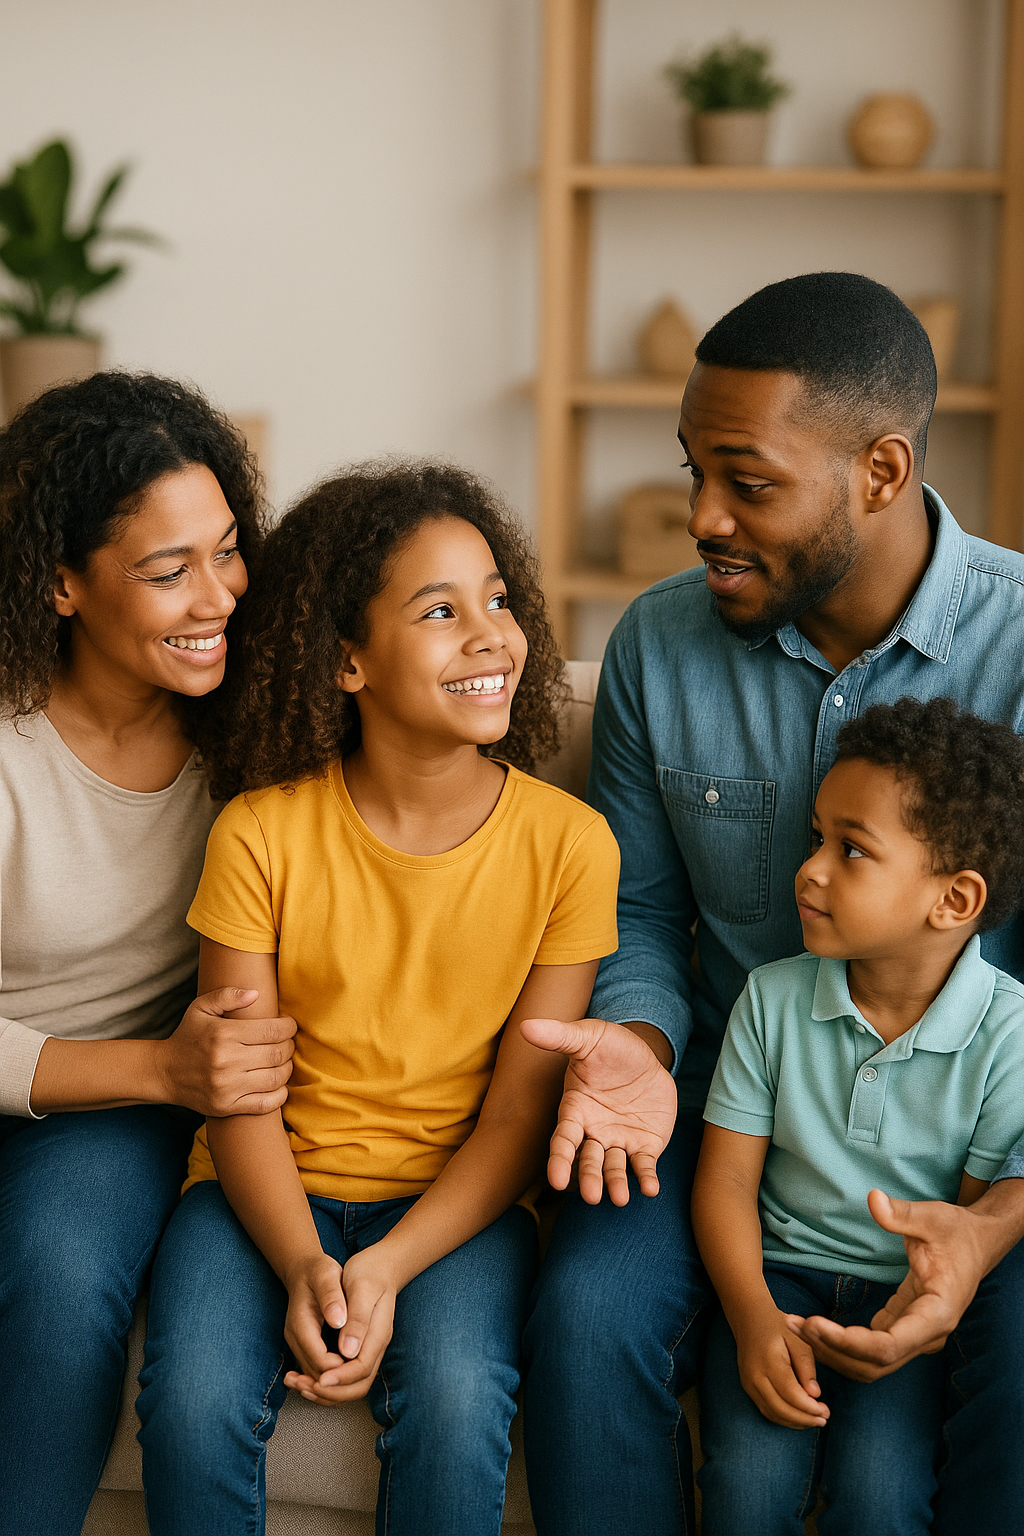
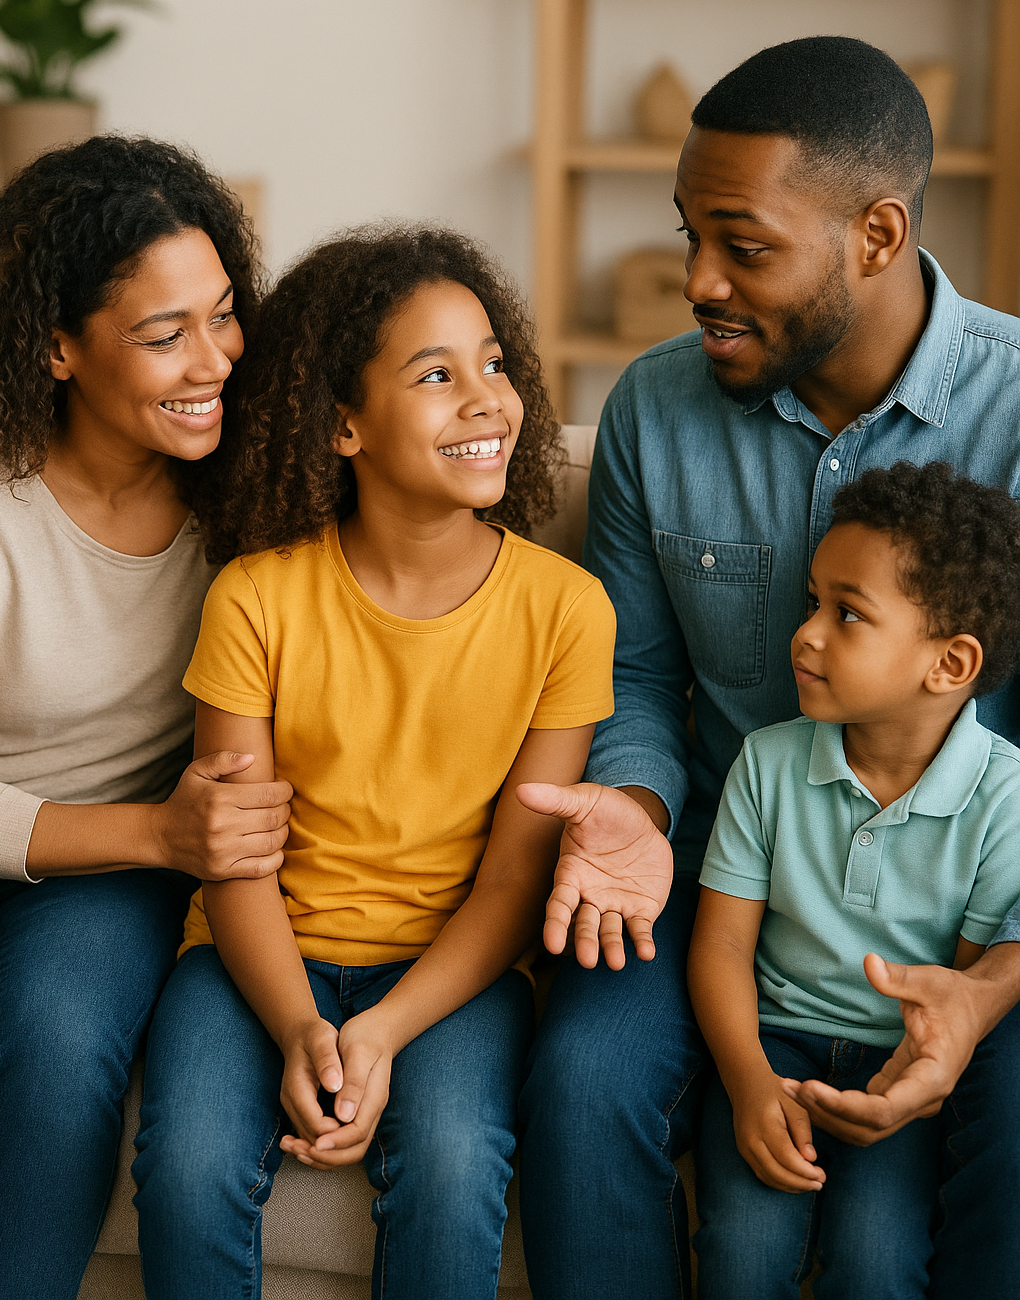
feat: add AnimatedArrow component and integrate into HeroSection; update HomePage layout for improved structure

diff --git a/src/pages/HomePage.tsx b/src/pages/HomePage.tsx
@@ -71,90 +71,99 @@ const itemVariants: Variants = {
 
 export const HomePage: React.FC = () => {
 	return (
-		<div className="bg-teal-900 min-h-screen overflow-x-hidden" id="home">
-			<HeroSection />
+		<>
+			<style>{`
+				body {
+					overflow-x: hidden;
+				}
+			`}</style>
+			<div className="bg-teal-900 min-h-screen" id="home">
+				<HeroSection />
 
-			{/* Features Section - Dark Teal */}
-			<AnimatedSection className="text-yellow-50 py-20">
-				<div className="container mx-auto px-6">
-					<div className="text-center mb-12">
-						<h2 className="text-3xl md:text-4xl font-bold mb-4">
-							Your Companion for Effective Parenting
-						</h2>
-						<p className="mt-6 text-lg max-w-2xl mx-auto">
-							The Value Driven Child (VDC) parenting Toolkit is
-							your essential companion for intentional and
-							effective parenting. It is meticulously designed to
-							equip parents and caregivers with proven methods to
-							nurture morally grounded, resilient, and successful
-							children in today's ever-changing world.
-						</p>
+				{/* Features Section - Dark Teal */}
+				<AnimatedSection className="text-yellow-50 py-20">
+					<div className="container mx-auto px-6">
+						<div className="text-center mb-12">
+							<h2 className="text-3xl md:text-4xl font-bold mb-4">
+								Your Companion for Effective Parenting
+							</h2>
+							<p className="mt-6 text-lg max-w-2xl mx-auto">
+								The Value Driven Child (VDC) parenting Toolkit
+								is your essential companion for intentional and
+								effective parenting. It is meticulously designed
+								to equip parents and caregivers with proven
+								methods to nurture morally grounded, resilient,
+								and successful children in today's ever-changing
+								world.
+							</p>
+						</div>
+
+						<motion.div
+							className="grid md:grid-cols-4 gap-8 text-center"
+							variants={containerVariants}
+							initial="hidden"
+							whileInView="visible"
+							viewport={{ once: true, amount: 0.2 }}>
+							{features.map((item, index) => (
+								<motion.div
+									key={index}
+									className="p-6 bg-teal-700 rounded-lg shadow-md transition-all duration-300"
+									variants={itemVariants}
+									whileHover={{
+										y: -5,
+										boxShadow:
+											"0px 10px 20px rgba(0,0,0,0.1)",
+									}}>
+									<h3 className="text-2xl font-bold mb-4">
+										{item.title}
+									</h3>
+									<p className="text-base md:text-xl">
+										{item.description}
+									</p>
+								</motion.div>
+							))}
+						</motion.div>
 					</div>
+				</AnimatedSection>
 
-					<motion.div
-						className="grid md:grid-cols-4 gap-8 text-center"
-						variants={containerVariants}
-						initial="hidden"
-						whileInView="visible"
-						viewport={{ once: true, amount: 0.2 }}>
-						{features.map((item, index) => (
-							<motion.div
-								key={index}
-								className="p-6 bg-teal-700 rounded-lg shadow-md transition-all duration-300"
-								variants={itemVariants}
-								whileHover={{
-									y: -5,
-									boxShadow: "0px 10px 20px rgba(0,0,0,0.1)",
-								}}>
-								<h3 className="text-2xl font-bold mb-4">
-									{item.title}
-								</h3>
-								<p className="text-base md:text-xl">
-									{item.description}
-								</p>
-							</motion.div>
-						))}
-					</motion.div>
-				</div>
-			</AnimatedSection>
+				{/* Personality Types Section - Medium Teal */}
+				<AnimatedSection className="bg-teal-600 text-yellow-50 py-20">
+					<div className="container mx-auto px-6">
+						<div className="text-center mb-12">
+							<h2 className="text-3xl md:text-4xl font-bold mb-4">
+								Understand Your Child's Unique Design
+							</h2>
+							<p className="text-lg max-w-2xl mx-auto">
+								The VDC Toolkit helps you discover your child's
+								natural predispositions—Gold, Blue, Green, or
+								Orange—allowing for personalized parenting that
+								nurtures their individual strengths.
+							</p>
+						</div>
 
-			{/* Personality Types Section - Medium Teal */}
-			<AnimatedSection className="bg-teal-600 text-yellow-50 py-20">
-				<div className="container mx-auto px-6">
-					<div className="text-center mb-12">
-						<h2 className="text-3xl md:text-4xl font-bold mb-4">
-							Understand Your Child's Unique Design
-						</h2>
-						<p className="text-lg max-w-2xl mx-auto">
-							The VDC Toolkit helps you discover your child's
-							natural predispositions—Gold, Blue, Green, or
-							Orange—allowing for personalized parenting that
-							nurtures their individual strengths.
-						</p>
+						<motion.div
+							className="flex justify-center flex-wrap gap-4"
+							variants={containerVariants}
+							initial="hidden"
+							whileInView="visible"
+							viewport={{ once: true, amount: 0.2 }}>
+							{predisposition.map((type, index) => (
+								<motion.div
+									key={index}
+									variants={itemVariants}
+									whileHover={{ scale: 1.1 }}
+									whileTap={{ scale: 0.9 }}>
+									<HashLink
+										to={`/#${type.name.toLowerCase()}`}
+										className={`bg-${type.color} text-${type.text} px-4 py-2 rounded-full font-semibold shadow-md transition-transform hover:shadow-lg`}>
+										{type.name}
+									</HashLink>
+								</motion.div>
+							))}
+						</motion.div>
 					</div>
-
-					<motion.div
-						className="flex justify-center flex-wrap gap-4"
-						variants={containerVariants}
-						initial="hidden"
-						whileInView="visible"
-						viewport={{ once: true, amount: 0.2 }}>
-						{predisposition.map((type, index) => (
-							<motion.div
-								key={index}
-								variants={itemVariants}
-								whileHover={{ scale: 1.1 }}
-								whileTap={{ scale: 0.9 }}>
-								<HashLink
-									to={`/#${type.name.toLowerCase()}`}
-									className={`bg-${type.color} text-${type.text} px-4 py-2 rounded-full font-semibold shadow-md transition-transform hover:shadow-lg`}>
-									{type.name}
-								</HashLink>
-							</motion.div>
-						))}
-					</motion.div>
-				</div>
-			</AnimatedSection>
-		</div>
+				</AnimatedSection>
+			</div>
+		</>
 	);
 };

diff --git a/src/components/Hero.tsx b/src/components/Hero.tsx
@@ -2,6 +2,7 @@ import { Button } from "@/components/ui/button";
 import { Badge } from "@/components/ui/badge";
 import { BookOpen, Users, Heart, CheckCircle } from "lucide-react";
 import { motion, type Variants } from "framer-motion";
+import { AnimatedArrow } from "./AnimatedArrow";
 
 const containerVariants: Variants = {
 	hidden: { opacity: 0 },
@@ -27,27 +28,27 @@ export function HeroSection() {
 	return (
 		<section
 			id="home"
-			className="py-20 bg-gradient-to-b from-teal-950 to-teal-600 min-h-screen flex items-center">
+			className="relative bg-gradient-to-b from-teal-950 to-teal-600 pt-2 sm:pt-4 lg:pt-8 pb-20 sm:pb-24 lg:pb-32 overflow-hidden">
 			<div className="container mx-auto px-4">
 				<motion.div
-					className="grid lg:grid-cols-2 gap-8 lg:gap-12 items-center"
+					className="grid lg:grid-cols-2 gap-12 lg:gap-16 items-center"
 					variants={containerVariants}
 					initial="hidden"
 					animate="visible">
-					<motion.div className="space-y-8" variants={itemVariants}>
+					<motion.div className="space-y-6" variants={itemVariants}>
 						<div className="space-y-4 text-yellow-50">
 							<motion.div variants={itemVariants}>
-								<Badge className="bg-blue-100 text-blue-800 hover:bg-blue-100">
+								<Badge className="bg-blue-100 text-blue-800 hover:bg-blue-100 text-sm">
 									Transform Children&apos;s Lives
 								</Badge>
 							</motion.div>
 							<motion.h1
-								className="text-3xl sm:text-4xl lg:text-5xl font-bold mb-6 break-words"
+								className="text-4xl sm:text-5xl lg:text-6xl font-bold tracking-tight break-words"
 								variants={itemVariants}>
 								Intentional Parenting for a Value-Driven Child
 							</motion.h1>
 							<motion.p
-								className="text-lg sm:text-xl mb-8 max-w-3xl mx-auto"
+								className="text-lg sm:text-xl max-w-2xl"
 								variants={itemVariants}>
 								Nurture morally grounded, resilient, and
 								successful children with the VDC Toolkit.
@@ -57,14 +58,14 @@ export function HeroSection() {
 						<motion.div
 							className="bg-yellow-50 p-6 rounded-lg shadow-lg border-l-4 border-orange-500"
 							variants={itemVariants}>
-							<h3 className="text-lg font-semibold text-gray-900 mb-2">
+							<h3 className="text-lg font-semibold text-gray-900">
 								Transform Behavior. Build Character. Shape
 								Destiny.
 							</h3>
 						</motion.div>
 
 						<motion.div
-							className="flex flex-col sm:flex-row flex-wrap gap-3 sm:gap-4"
+							className="flex flex-col sm:flex-row flex-wrap gap-4"
 							variants={itemVariants}>
 							<Button
 								size="lg"
@@ -113,9 +114,7 @@ export function HeroSection() {
 						<img
 							src="/images/8.png"
 							alt="A happy family"
-							width={500}
-							height={600}
-							className="rounded-2xl shadow-2xl w-full h-auto"
+							className="rounded-2xl shadow-2xl w-full h-auto  object-cover"
 						/>
 						<motion.div
 							className="absolute -bottom-4 -left-4 sm:-bottom-6 sm:-left-6 bg-yellow-50 p-3 sm:p-4 rounded-lg shadow-lg z-10"
@@ -137,6 +136,7 @@ export function HeroSection() {
 					</motion.div>
 				</motion.div>
 			</div>
+			<AnimatedArrow />
 		</section>
 	);
 }

diff --git a/src/components/AnimatedArrow.tsx b/src/components/AnimatedArrow.tsx
@@ -1,0 +1,42 @@
+import * as React from "react";
+import { motion } from "framer-motion";
+
+export const AnimatedArrow: React.FC = () => {
+  const handleScroll = () => {
+    window.scrollBy({
+      top: window.innerHeight * 0.4, // Scroll down by 40% of the viewport height
+      behavior: "smooth",
+    });
+  };
+
+  return (
+    <motion.div
+      onClick={handleScroll}
+      className="absolute bottom-32 left-[48%] -translate-x-1/2 cursor-pointer z-50 hidden md:block"
+      animate={{
+        y: ["0%", "20%", "0%"],
+      }}
+      transition={{
+        duration: 1.5,
+        repeat: Infinity,
+        repeatType: "loop",
+        ease: "easeInOut",
+      }}
+    >
+      <svg
+        className="w-8 h-8 text-yellow-400"
+        fill="none"
+        stroke="currentColor"
+        viewBox="0 0 24 24"
+        xmlns="http://www.w3.org/2000/svg"
+      >
+        <path
+          strokeLinecap="round"
+          strokeLinejoin="round"
+          strokeWidth={2}
+          d="M19 9l-7 7-7-7"
+        />
+      </svg>
+    </motion.div>
+  );
+};
